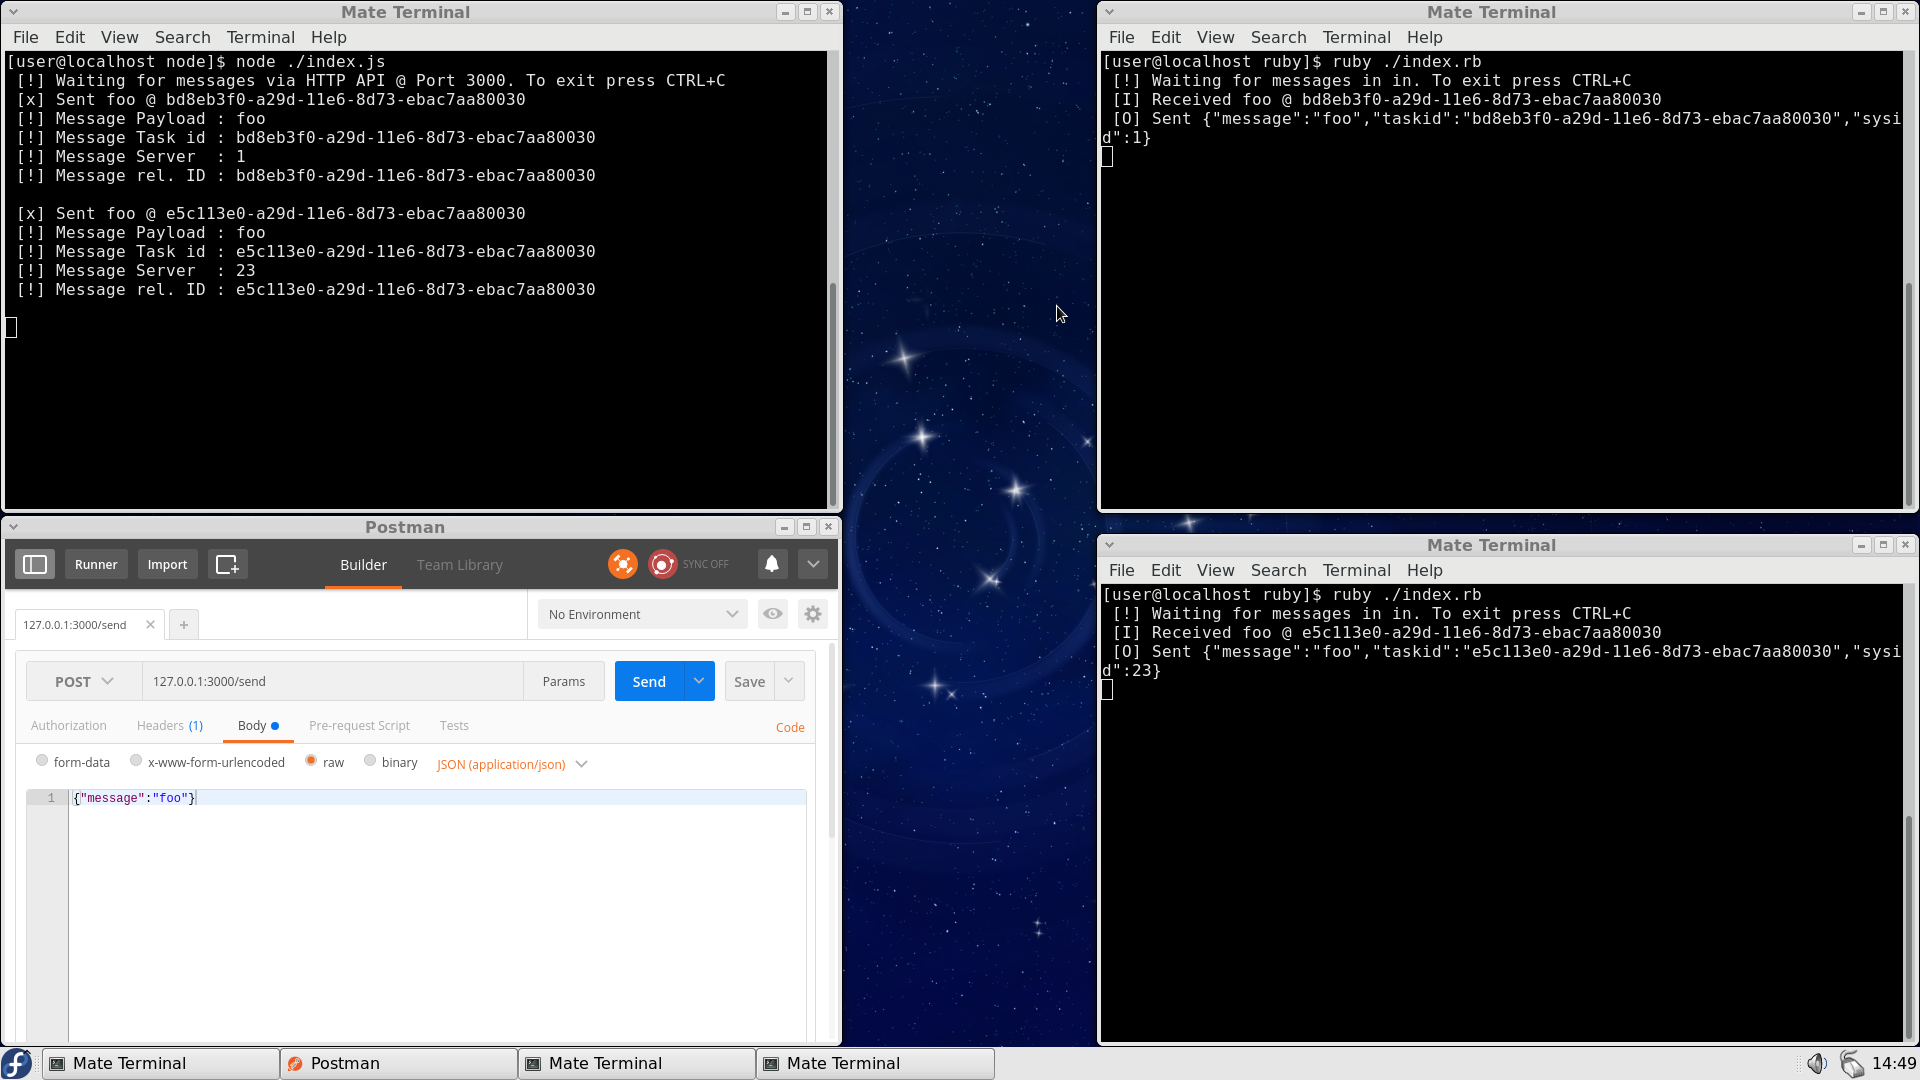
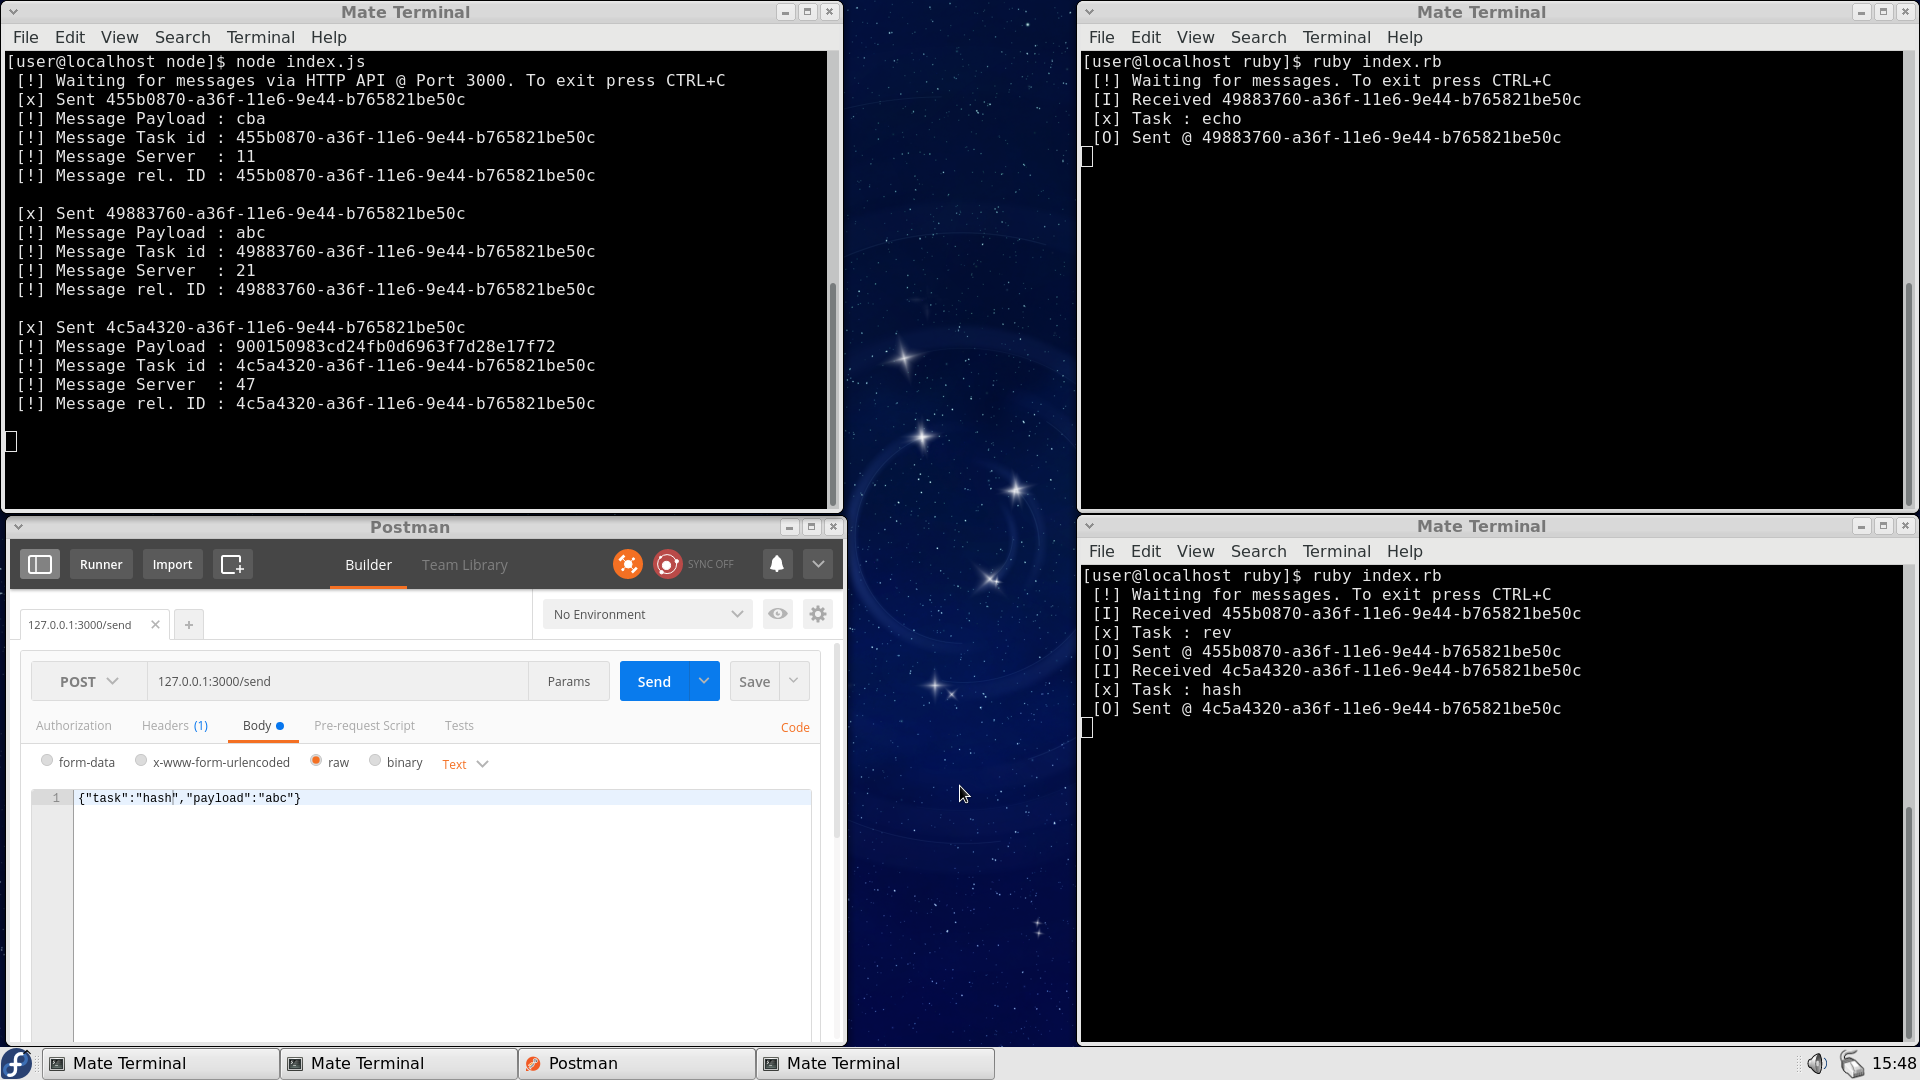
Rewritten the Ruby Middleware & new functions

diff --git a/node/index.js b/node/index.js
@@ -23,9 +23,9 @@ amqp.connect("amqp://localhost", function(err, conn) {
         ch.assertQueue("out", {durable: false});
         ch.consume("out", function(msg) {
             var messageContent = JSON.parse(msg.content.toString());
-            history.push(messageContent);
+            history[messageContent.seq].result = messageContent;
 //          stack.push(messageContent);
-            console.log(" [!] Message Payload : %s", messageContent.message);
+            console.log(" [!] Message Payload : %s", messageContent.payload);
             console.log(" [!] Message Task id : %s", messageContent.taskid);
             console.log(" [!] Message Server  : %s", messageContent.sysid);
             console.log(" [!] Message rel. ID : %s", msg.properties.correlationId.toString());
@@ -35,11 +35,13 @@ amqp.connect("amqp://localhost", function(err, conn) {
 });
 
 function writeMessage (msg) {
+    history[msg.seq] = msg;
+    message = JSON.stringify(msg);
     amqp.connect("amqp://localhost", function(err, conn) {
         conn.createChannel(function(err, ch) {
             ch.assertQueue("in", {durable: false});
-            ch.sendToQueue("in", new Buffer.from(msg.message), { correlationId: msg.uid });
-            console.log(" [x] Sent %s @ %s", msg.message, msg.uid);
+            ch.sendToQueue("in", new Buffer.from(message), { correlationId: msg.uuid });
+            console.log(" [x] Sent %s", msg.uuid);
         });
     });
     return true;
@@ -54,6 +56,7 @@ function writeMessage (msg) {
 
 app.get("/clear", function(req, res) {
     history = [];
+    counter = 0;
     res.json({ message: "Done" });
 });
 
@@ -67,8 +70,9 @@ app.get("/history/:id", function(req, res){
 
 app.post("/send", function(req, res){
     var uid = uuid.v1();
-    var msg = req.body.message;
-    var message = { message: msg, uid: uid };
+    var task = req.body.task;
+    var payload = req.body.payload;
+    var message = { task: task, payload: payload, seq: counter, uuid: uid , result: {}};
 
     res.json({counter: counter.toString()});
     writeMessage(message);

diff --git a/ruby/index.rb b/ruby/index.rb
@@ -2,21 +2,83 @@
 
 require "bunny"
 require "json"
+require "digest/md5"
 
-connection = Bunny.new
-connection.start
+# Class: Rabbit
+# Function: to maintain a list of function to communicate with RabbitMQ via Bunny gem
+#   You Probably Don't wan't to touch this.
+class Rabbit
+  def initialize
+    @connection = Bunny.new
+    @connection.start
+    @channel = @connection.create_channel
+  end
 
-channel    = connection.create_channel
-queue_in   = channel.queue("in")
-queue_out  = channel.queue("out")
-prng       = Random.new
-sysid      = ENV["SYSID"] || prng.rand(100)
+  # Message Queue Listener and Job Dispatcher
+  def listen
+    puts " [!] Waiting for messages. To exit press CTRL+C"
+    queue_in.subscribe(block: true) do |_, properties, body|
+      puts " [I] Received #{properties.correlation_id}"
+      Thread.new { processor(body, properties.correlation_id) }
+    end
+  end
 
-puts " [!] Waiting for messages in #{queue_in.name}. To exit press CTRL+C"
+  # Message Queue Publisher
+  def publish(message, corr)
+    @channel.default_exchange.publish(message, routing_key: queue_out.name, correlation_id: corr)
+  end
 
-queue_in.subscribe(block: true) do |_, properties, body|
-  puts " [I] Received #{body} @ #{properties.correlation_id}"
-  msg = JSON.generate({ message: body, taskid: properties.correlation_id, sysid: sysid })
-  channel.default_exchange.publish(msg, routing_key: queue_out.name, correlation_id: properties.correlation_id)
-  puts " [O] Sent #{msg}"
+  # Close the Channel
+  def close
+    @channel.close
+  end
+
+  private
+
+  # Set up the incoming queue
+  def queue_in
+    @channel.queue("in")
+  end
+
+  # Set up the outgoing queue
+  def queue_out
+    @channel.queue("out")
+  end
 end
+
+# Class: Tools
+# Function: To maintain a set of functions.
+class Tools
+  # Generate Random Number
+  def random
+    prng = Random.new
+    prng.rand(100)
+  end
+
+  # MD5 Hash
+  def md5
+    Digest::MD5.new
+  end
+end
+
+def processor(message, msg_id)
+  rabbit = Rabbit.new
+  tools  = Tools.new
+  parsed = JSON.parse(message)
+  puts " [x] Task : #{parsed['task']}"
+  case parsed["task"]
+  when "echo"
+    payload = parsed["payload"]
+  when "hash"
+    payload = tools.md5.hexdigest(parsed["payload"])
+  when "rev"
+    payload = parsed["payload"].to_s.reverse!
+  end
+  msg = JSON.generate(payload: payload, seq: parsed["seq"], taskid: parsed["uuid"], sysid: tools.random)
+  rabbit.publish(msg, msg_id)
+  puts " [O] Sent @ #{msg_id}"
+  rabbit.close
+end
+
+rabbit = Rabbit.new
+rabbit.listen

diff --git a/README.md b/README.md
@@ -10,13 +10,10 @@ This Repository hosts two middleware component written in Ruby and Node.js.
 
 #### Ruby
 Middleware that execute tasks.
-Currently, it just echoes back the message.
 
 タスク実行のミドルウェア。
-現在、メッセージを返信よりも何もできません。
 
 執行任務的中間件。
-現時它只能回傳接收到的信息。
 
 #### Node.js
 Middleware that act as REST API.
@@ -34,31 +31,29 @@ REST API中間件。
 
 ### How To use? // 使い方 (英語のみ) // 食用方法 (English Only)
 
-1. Clone the Repository
-2. Open at least 2 terminal windows
-* Terminal 1
+* Clone the Repository
+* Open at least 2 terminal windows
+ * Terminal 1 `npm install && node ./node/index.js`
+ * Terminal 2 `cd ruby && bundler install && ruby index.rb`
+ * Terminal 3 and further `ruby ./ruby/index.js`
+* Use HTTP POST method in your REST Client, Send a RAW payload as follows to `http://127.0.0.1:3000/send`
+* Get MD5 Hash of the payload
 ```
-npm install
-node ./node/index.js
+{"task":"hash","payload":"abc"}
+
 ```
-* Terminal 2
+* Reverse the payload string (abc => cba)
 ```
-cd ruby
-bundler install
-ruby index.js
+{"task":"rev","payload":"abc"}
+
 ```
-* Terminal 3 and further
+* Echo back the payload
 ```
-ruby ./ruby/index.js
-```
-3. Use HTTP POST method in your REST Client, Send this JSON payload as Raw to `http://127.0.0.1:3000/send`
-```
-{"message":"foo"}
+{"task":"echo","payload":"abc"}
 ```
 
-4. Use any Web Browser, navigate to `http://127.0.0.1:3000/history`, you will see history of responded messages
-
-5. To empty the history, navigate to `http://127.0.0.1:3000/clear`
+* Use any Web Browser, navigate to `http://127.0.0.1:3000/history`, you will see history of messages, with response
+* To empty the history, navigate to `http://127.0.0.1:3000/clear`
 
 ![Screenshot](shot.png?raw=true "Screenshot")
 
